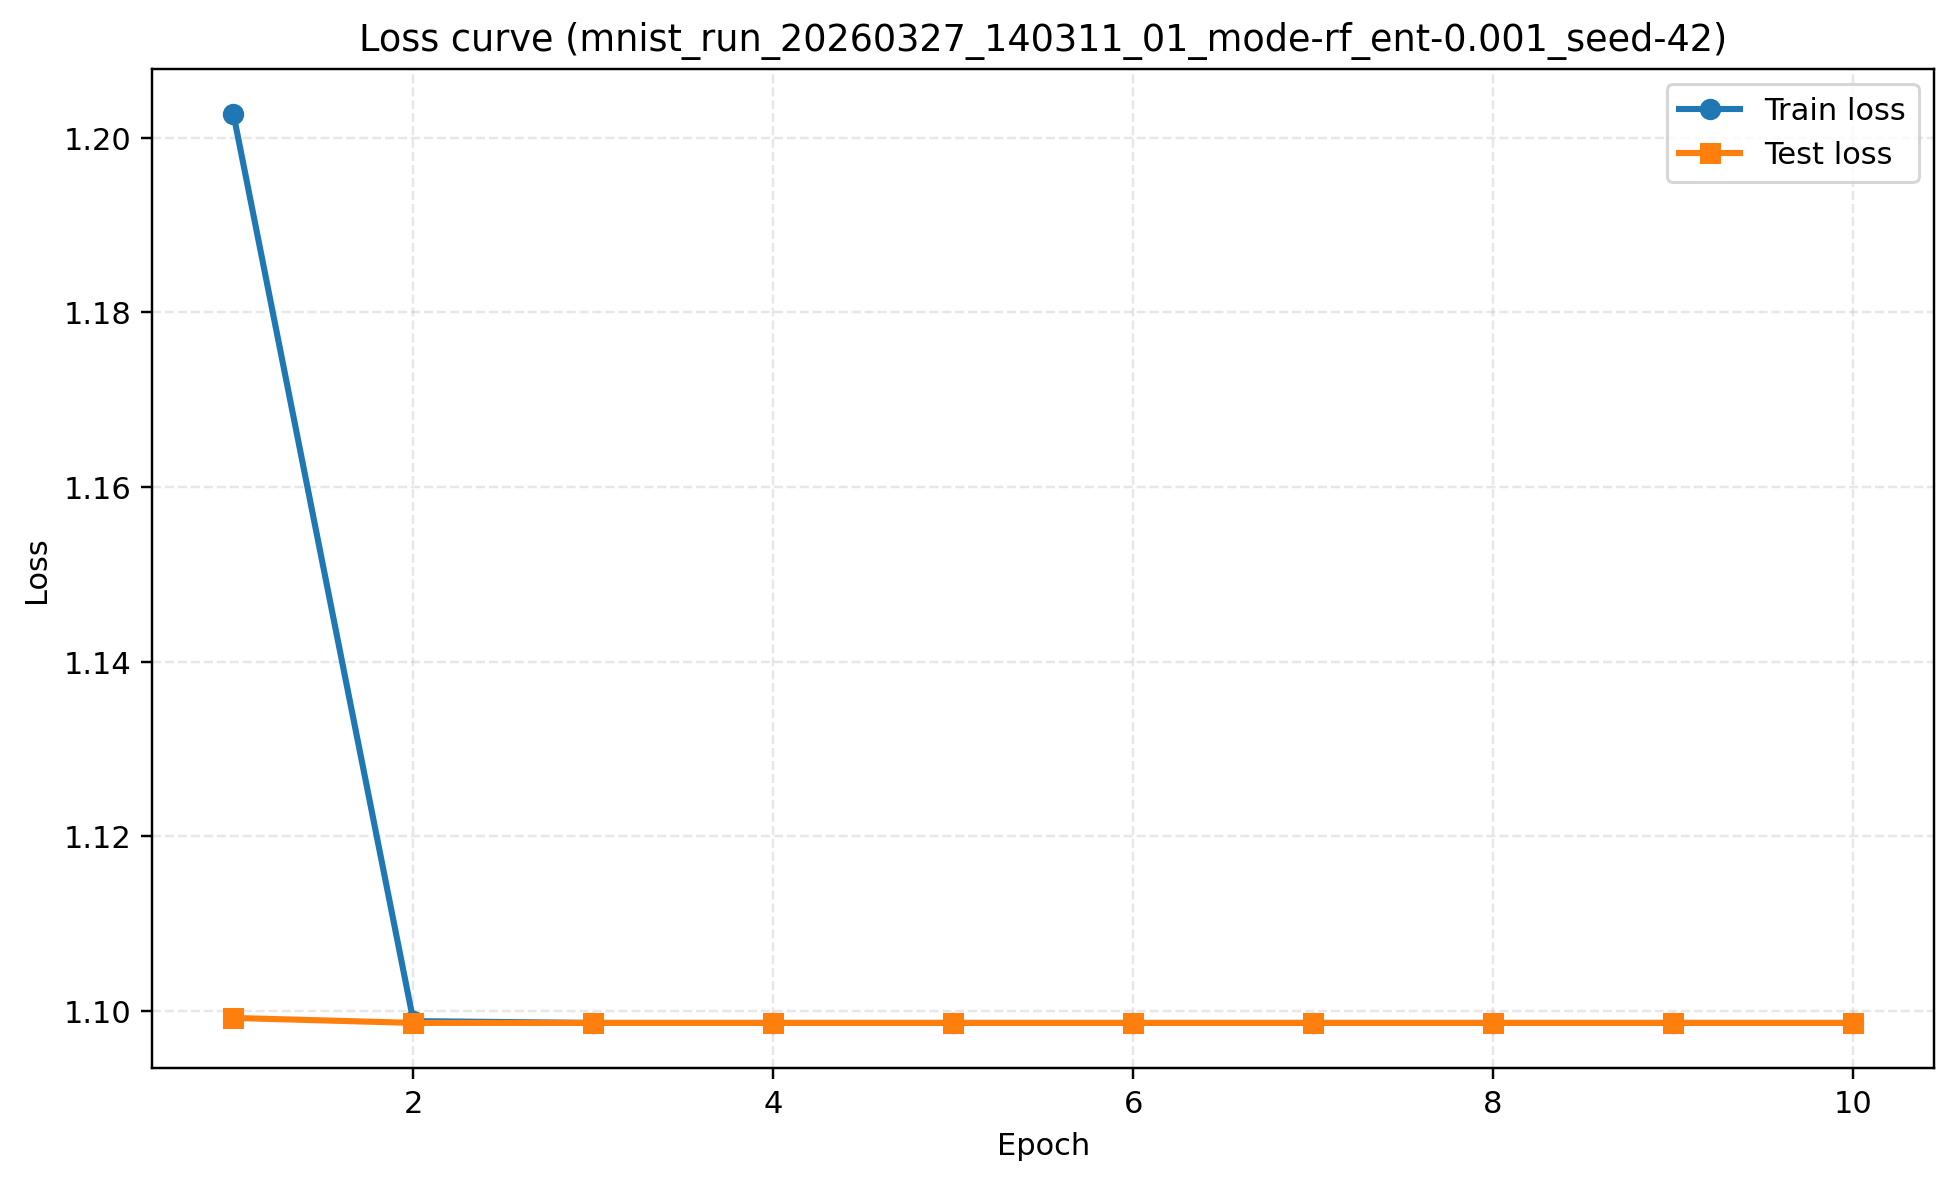
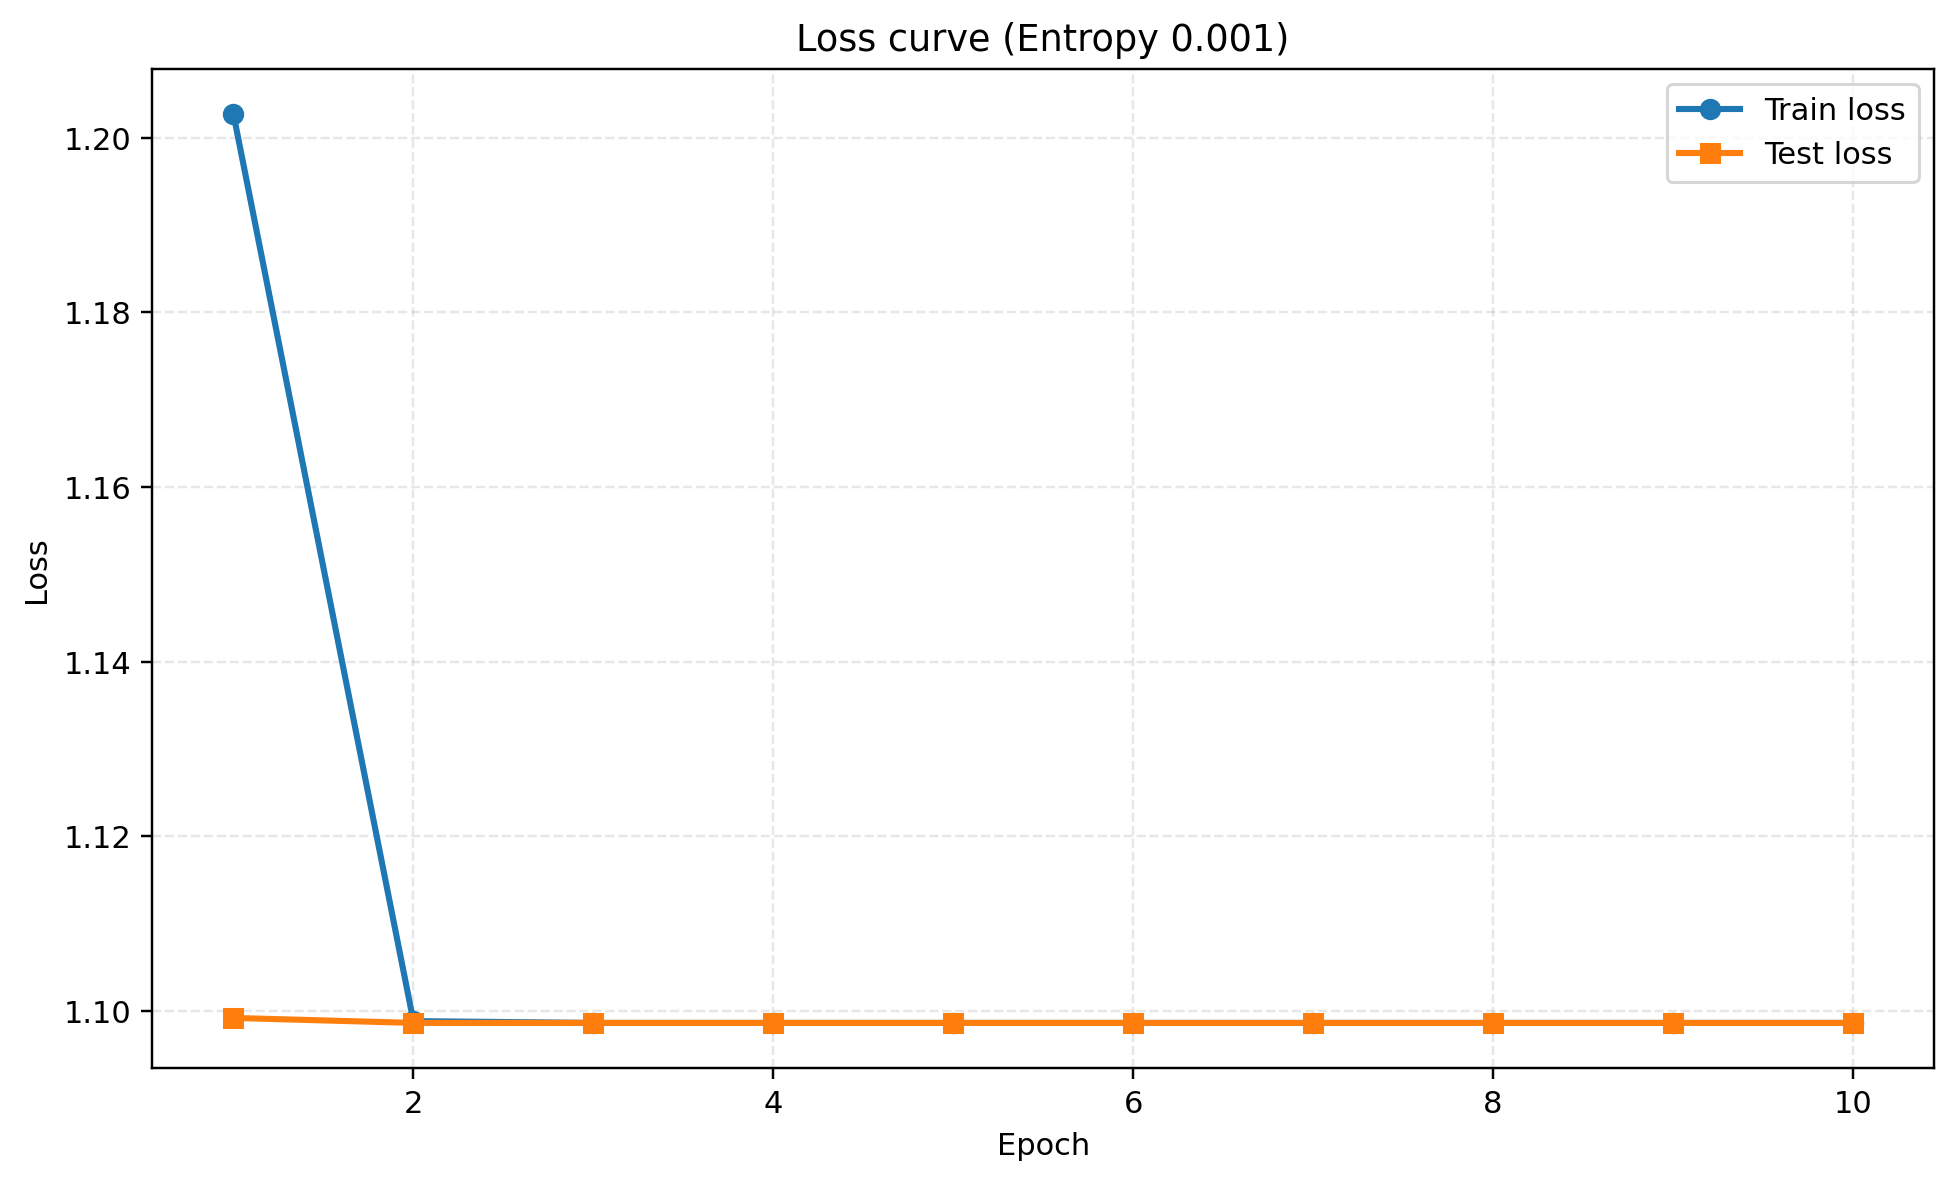
Continued work

Changed region(s): [[0.1872, 0.0, 0.8737, 0.0609]]

diff --git a/egg/zoo/basic_games_MNIST/run_mnist_experiments.py b/egg/zoo/basic_games_MNIST/run_mnist_experiments.py
@@ -172,7 +172,7 @@ def main():
             "--output",
             str(loss_png),
             "--title",
-            f"Loss curve ({run_name})",
+            f"Loss curve (Entropy {sweep_value})",
         ]
 
         print("=" * 80)

diff --git a/egg/zoo/survival_game/debug.md b/egg/zoo/survival_game/debug.md
@@ -1,3 +1,17 @@
+# Command for long run
+cd /cs/home/nc212/Documents/Fourth_Year/Dissertation
+
+tmux new-session -d -s no_recon_run \
+'cd /cs/home/nc212/Documents/Fourth_Year/Dissertation && \
+systemd-inhibit --what=shutdown:sleep --why="long survival training" \
+bash -lc "./run_experiments.sh 2>&1 | tee run_experiments_$(date +%Y%m%d_%H%M%S).out"'
+
+cd /cs/home/nc212/Documents/Fourth_Year/Dissertation
+tail -f "$(ls -t run_experiments_*.out | head -n 1)"
+nvidia-smi
+
+tmux kill-session -t no_recon_run
+
 # Survival Game Debug Q&A Log
 
 
